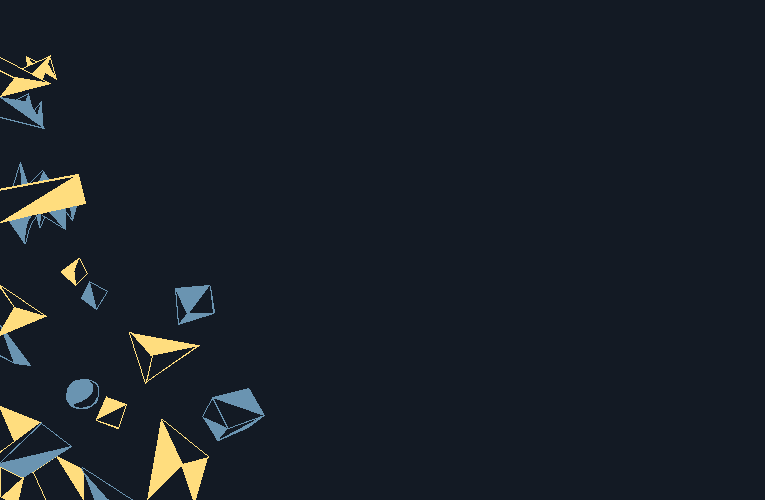
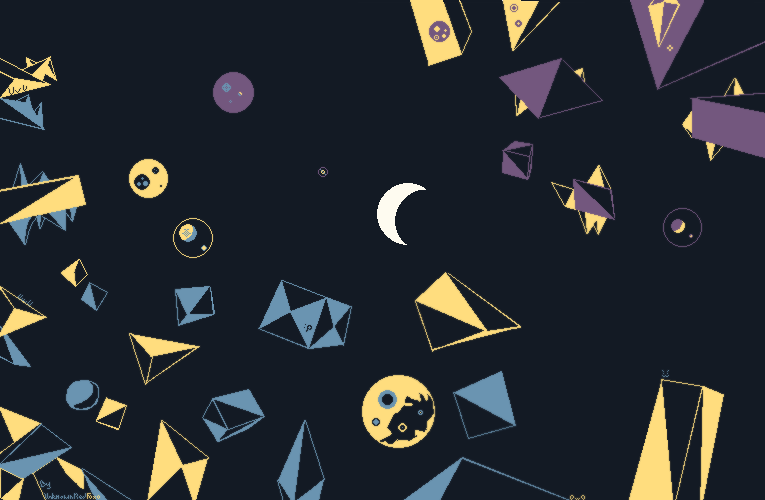
Made map 'bigger', continued bg and fixed holes in the player sprite.

diff --git a/main.py b/main.py
@@ -16,7 +16,7 @@ class gameProgram:
     def __init__(self):
         # Initialises the pygame basic window configs
         pygame.display.set_caption("Les J.O. aux services des bases de données: Trophée NSI")
-        pygame.display.set_icon(pygame.image.load("./data/images/icons/placeholder.png"))
+        pygame.display.set_icon(pygame.image.load("./data/images/icons/logo.png"))
 
         self.ratio_Factor = 2
         self.screen_width, self.screen_height = 600, 600
@@ -45,7 +45,7 @@ class gameProgram:
             'floor': img_loader("tiles/floor.png"),
             'corner': img_loader("tiles/corner.png"),
             'portal': pygame.transform.scale(img_loader("tiles/portal.png"), (50, 50)),
-            'bg': pygame.transform.scale(pygame.image.load('data/images/tiles/idea-bg_trophee-nsi.png').convert(), (950, 750))
+            'bg': pygame.transform.scale(pygame.image.load('data/images/tiles/idea-bg_trophee-nsi.png').convert(), (1530, 1000))
         }
 
         self.portalWidth, self.portalHeight = self.assets['portal'].get_width(), self.assets['portal'].get_height()
@@ -57,15 +57,15 @@ class gameProgram:
 
         # Create the variables used for the camera
         self.camera = pygame.Rect(0, 0, self.display_width, self.display_height)
-        self.camera_offset_x = -(self.player.playerPos[0] - self.display_width / 2)
-        self.camera_offset_y = -(self.player.playerPos[1] - self.display_height / 2)
+        self.camera_offset_x = -(self.player.playerPos[0] - self.display_width // 2)
+        self.camera_offset_y = -(self.player.playerPos[1] - self.display_height // 2)
         self.camera_offset = [0, 0]
 
         # Creates rects that blocks the player off
-        self.limitLeft = pygame.Rect(-100, 0, 5, self.display_height)
-        self.limitRight = pygame.Rect(420, 0, 5, self.display_height)
-        self.limitUp = pygame.Rect(-100, 0, self.display_width + 490, 5)
-        self.limitDown = pygame.Rect(-100, self.display_height - 5, self.display_width + 490, 5)
+        self.limitLeft = pygame.Rect(-120, -50, 5, 450)
+        self.limitRight = pygame.Rect(550, -50, 5, 450)
+        self.limitUp = pygame.Rect(-120, -50, 670, 5)
+        self.limitDown = pygame.Rect(-120, 400, 670, 5)
 
         self.collisionList = [self.limitLeft, self.limitRight, self.limitUp, self.limitDown]
 
@@ -73,7 +73,7 @@ class gameProgram:
 
         while True:
             self.display.fill((0, 0, 0))
-            self.display.blit(self.bg, (-225 + self.camera_offset[0], -125 + self.camera_offset[1]))
+            self.display.blit(self.bg, (-300 + self.camera_offset[0], -200 + self.camera_offset[1]))
             # Dictionary of every rectangle and their text
             sportTeleporters = {
 
@@ -161,7 +161,11 @@ class gameProgram:
             self.player.update(((self.x_mov[1] - self.x_mov[0]) * self.player.speed, (self.y_mov[1] - self.y_mov[0]) * self.player.speed))
 
             if self.debugMode:
-                pygame.draw.rect(self.display, self.colors["Gray"], self.player.playerRect().move(self.camera_offset))
+                pygame.draw.rect(self.display, self.colors["White"], self.player.playerRect().move(self.camera_offset))
+                pygame.draw.rect(self.display, self.colors["Gray"], self.limitLeft.move(self.camera_offset))
+                pygame.draw.rect(self.display, self.colors["Gray"], self.limitRight.move(self.camera_offset))
+                pygame.draw.rect(self.display, self.colors["Gray"], self.limitUp.move(self.camera_offset))
+                pygame.draw.rect(self.display, self.colors["Gray"], self.limitDown.move(self.camera_offset))
 
             ###### -------------------------------------- ######
 

diff --git a/scripts/utility.py b/scripts/utility.py
@@ -15,7 +15,7 @@ def img_loader(path) -> pygame.image:
     Loads the single image from the path.
     need to specify the image to load, with both the name and extension of the file."""
     img = pygame.image.load(BASE_IMG_PATH + path).convert()
-    img.set_colorkey((0, 0, 0))
+    # img.set_colorkey((0, 0, 0))
     img = pygame.transform.scale(img, (img.get_width() // 2, img.get_height() // 2))
 
     return img
